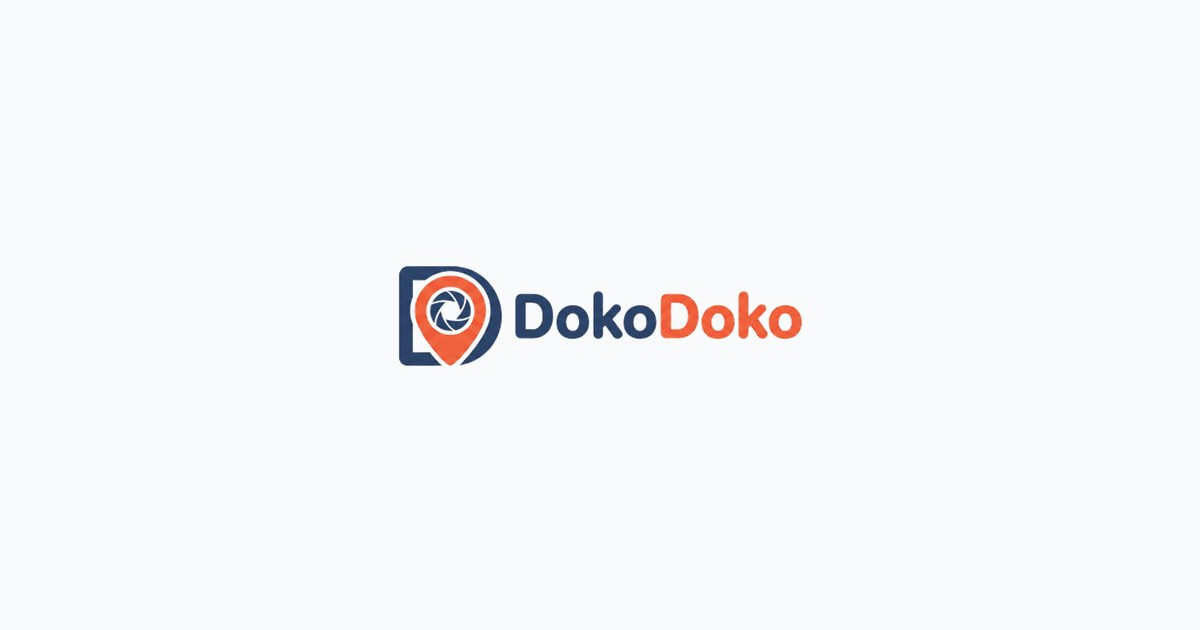
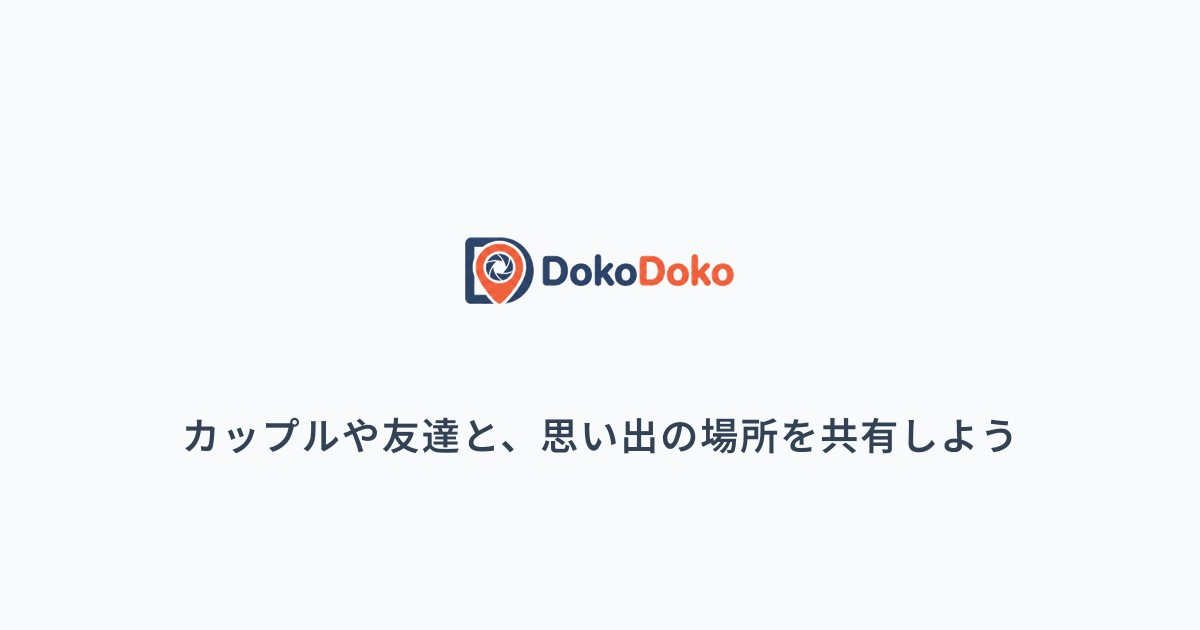
fix: correctly compose tagline text on OGP image

Changed region(s): [[0.3083, 0.3619, 0.6783, 0.6032], [0.1542, 0.6635, 0.8633, 0.7238]]

diff --git a/scripts/generate-ogp.js b/scripts/generate-ogp.js
@@ -16,14 +16,14 @@ async function createOgp() {
       }
     });
 
-    // 2. ロゴの読み込みとリサイズ
+    // 2. ロゴの読み込みとリサイズ (枠に収めて透過パディング)
     const logoBuffer = fs.readFileSync('public/logo_full.png');
-    // 高さを200pxにして、下部にテキスト用のスペースを確保
     const logo = await sharp(logoBuffer)
       .resize({
         width: 800,
         height: 200,
-        fit: 'inside',
+        fit: 'contain',
+        background: { r: 0, g: 0, b: 0, alpha: 0 }
       })
       .toBuffer();
 
@@ -39,18 +39,17 @@ async function createOgp() {
             letter-spacing: 2px;
           }
         </style>
-        <text x="50%" y="460" text-anchor="middle" class="title">
+        <text x="50%" y="450" text-anchor="middle" class="title">
           カップルや友達と、思い出の場所を共有しよう
         </text>
       </svg>
     `;
 
-    // 4. 重ね合わせ (ロゴを中心より少し上に配置し、テキストを下に配置)
+    // 4. 重ね合わせ (座標を直接指定)
     await background
       .composite([
-        // ロゴのY座標: 中央(315) - (200/2) - 40(少し上へ) = 175 くらい
-        { input: logo, gravity: 'north', top: 180 }, 
-        { input: Buffer.from(svgText), top: 0, left: 0 }
+        { input: logo, left: 200, top: 170 }, 
+        { input: Buffer.from(svgText), left: 0, top: 0 }
       ])
       .jpeg({ quality: 90 })
       .toFile('public/ogp.jpg');
